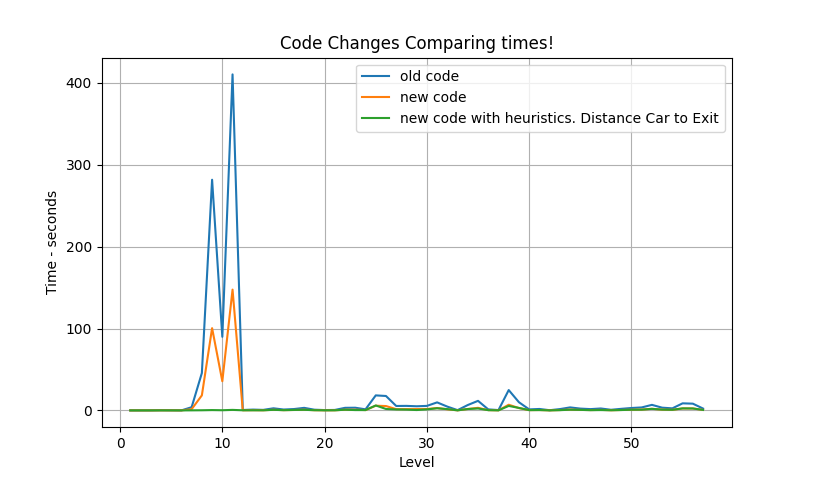
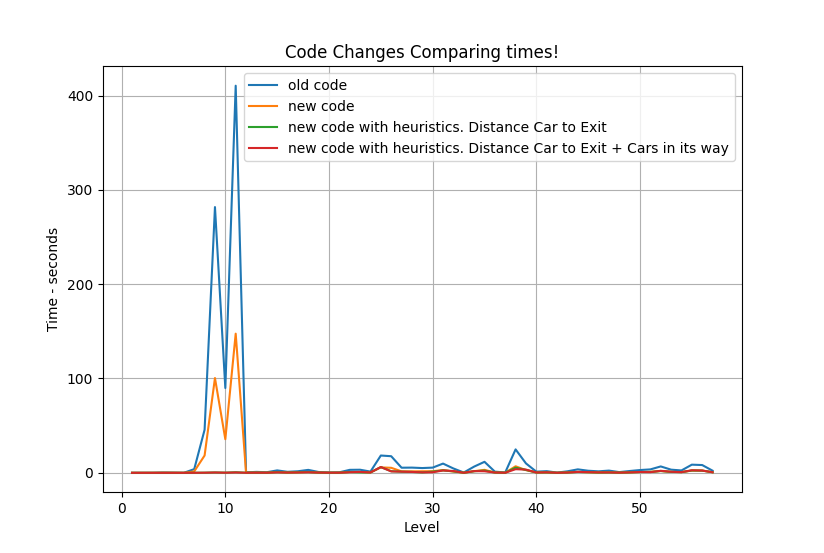
changes

diff --git a/commonMethods.py b/commonMethods.py
@@ -230,8 +230,26 @@ def DistanceToExitEuristics(grid,_coordinates):
     cords = piece_coordinates("A",_coordinates)[1]
 
 
-
     return grid_size - cords[0]
+
+
+
+def DistanceToExitBlockingCars(grid,_coordinates):
+
+    grid_size = len(grid)
+
+    cords = piece_coordinates("A",_coordinates)[1]
+
+    grid_size - cords[0]
+    array = [(x,cords[1]) for x in range(grid_size - cords[0])]
+    counter = 0
+    for i in _coordinates:
+        if (i[0],i[1]) in array:
+            counter+=1
+        
+
+    return grid_size - cords[0] + counter
+
 
 
 def possibleMovesAStart(map):
@@ -250,7 +268,7 @@ def possibleMovesAStart(map):
                 grid2 = copy.deepcopy(map[0])
                 move(grid2,car,carCords,(-1,0))
 
-                map2 = (grid2,map[1],map[2] + car + "a",DistanceToExitEuristics(grid2,_coordinates))  # Creates a copy of the current Map Tuple and Updates the current Solution
+                map2 = (grid2,map[1],map[2] + car + "a",DistanceToExitBlockingCars(grid2,_coordinates))  # Creates a copy of the current Map Tuple and Updates the current Solution
 
 
                 
@@ -264,7 +282,7 @@ def possibleMovesAStart(map):
                 grid2 = copy.deepcopy(map[0])
                 move(grid2,car,carCords,(1,0))
 
-                map2 = (grid2,map[1],map[2] + car + "d",DistanceToExitEuristics(grid2,_coordinates))  # Creates a copy of the current Map Tuple and Updates the current Solution
+                map2 = (grid2,map[1],map[2] + car + "d",DistanceToExitBlockingCars(grid2,_coordinates))  # Creates a copy of the current Map Tuple and Updates the current Solution
 
                 
                 possibleStates.append(map2) # Appends it to the possible states
@@ -278,7 +296,7 @@ def possibleMovesAStart(map):
                 move(grid2,car,carCords,(0,-1))
 
 
-                map2 = (grid2,map[1],map[2] + car + "w",DistanceToExitEuristics(grid2,_coordinates))  # Creates a copy of the current Map Tuple and Updates the current Solution
+                map2 = (grid2,map[1],map[2] + car + "w",DistanceToExitBlockingCars(grid2,_coordinates))  # Creates a copy of the current Map Tuple and Updates the current Solution
 
                 
                 possibleStates.append(map2) # Appends it to the possible states
@@ -290,7 +308,7 @@ def possibleMovesAStart(map):
                 grid2 = copy.deepcopy(map[0])
                 move(grid2,car,carCords,(0,1))
 
-                map2 = (grid2,map[1],map[2] + car + "s",DistanceToExitEuristics(grid2,_coordinates))  # Creates a copy of the current Map Tuple and Updates the current Solution
+                map2 = (grid2,map[1],map[2] + car + "s",DistanceToExitBlockingCars(grid2,_coordinates))  # Creates a copy of the current Map Tuple and Updates the current Solution
 
                 
                 possibleStates.append(map2) # Appends it to the possible states
@@ -361,7 +379,7 @@ if __name__ == "__main__":
     j =1
     startTime = 0
     endTime = 0
-    searchType = "breathSearch"
+    searchType = "A*"
     for i in Lines:
 
         if searchType == "breathSearch":

diff --git a/report/plottingTimeData.py b/report/plottingTimeData.py
@@ -5,6 +5,8 @@ import matplotlib.pyplot as plt
 file1 = open('times_1.txt', 'r')
 file2 = open('times_2.txt', 'r')
 file3 = open('times_3.txt', 'r')
+file4 = open('times_4.txt', 'r')
+
 Lines = file1.readlines()
 j =1
 x = []
@@ -14,7 +16,7 @@ for line in Lines[3:]:
     y1.append(float(line.split(" ")[5]))
 
 
-plt.plot(x, y1, label = "old code")
+#plt.plot(x, y1, label = "old code")
 
 
 Lines = file2.readlines()
@@ -22,7 +24,7 @@ y2 = []
 for line in Lines[3:]:
     y2.append(float(line.split(" ")[5]))
 
-plt.plot(x, y2, label = "new code")
+#plt.plot(x, y2, label = "new code")
 
 
 
@@ -32,6 +34,19 @@ for line in Lines[3:]:
     y3.append(float(line.split(" ")[5]))
 
 plt.plot(x, y3, label = "new code with heuristics. Distance Car to Exit")
+
+
+
+
+Lines = file4.readlines()
+y3 = []
+for line in Lines[3:]:
+    y3.append(float(line.split(" ")[5]))
+
+plt.plot(x, y3, label = "new code with heuristics. Distance Car to Exit + Cars in its way")
+
+
+
 
 # naming the x axis
 plt.xlabel('Level')

diff --git a/report/plottingNodeData.py b/report/plottingNodeData.py
@@ -4,6 +4,8 @@ import matplotlib.pyplot as plt
 file0 = open("levels_copy.txt",'r')
 file1 = open('numberNodesBreath.txt', 'r')
 file2 = open('numberNodesH1.txt', 'r')
+file3 = open('numberNodesH2.txt', 'r')
+
 
 x = []
 
@@ -31,6 +33,13 @@ for line in Lines[1:]:
 
 plt.plot(x, y2,'o',label = "Heuristc H1 -> Distance from car A to exit")
 
+
+Lines = file3.readlines()
+y2 = []
+for line in Lines[1:]:
+    y2.append(float(line.split(" ")[3]))
+
+plt.plot(x, y2,'o',label = "Heuristc H2 -> Distance from car A to exit + number of cars on its way")
 
 # naming the x axis
 plt.xlabel('Number of possible states')
